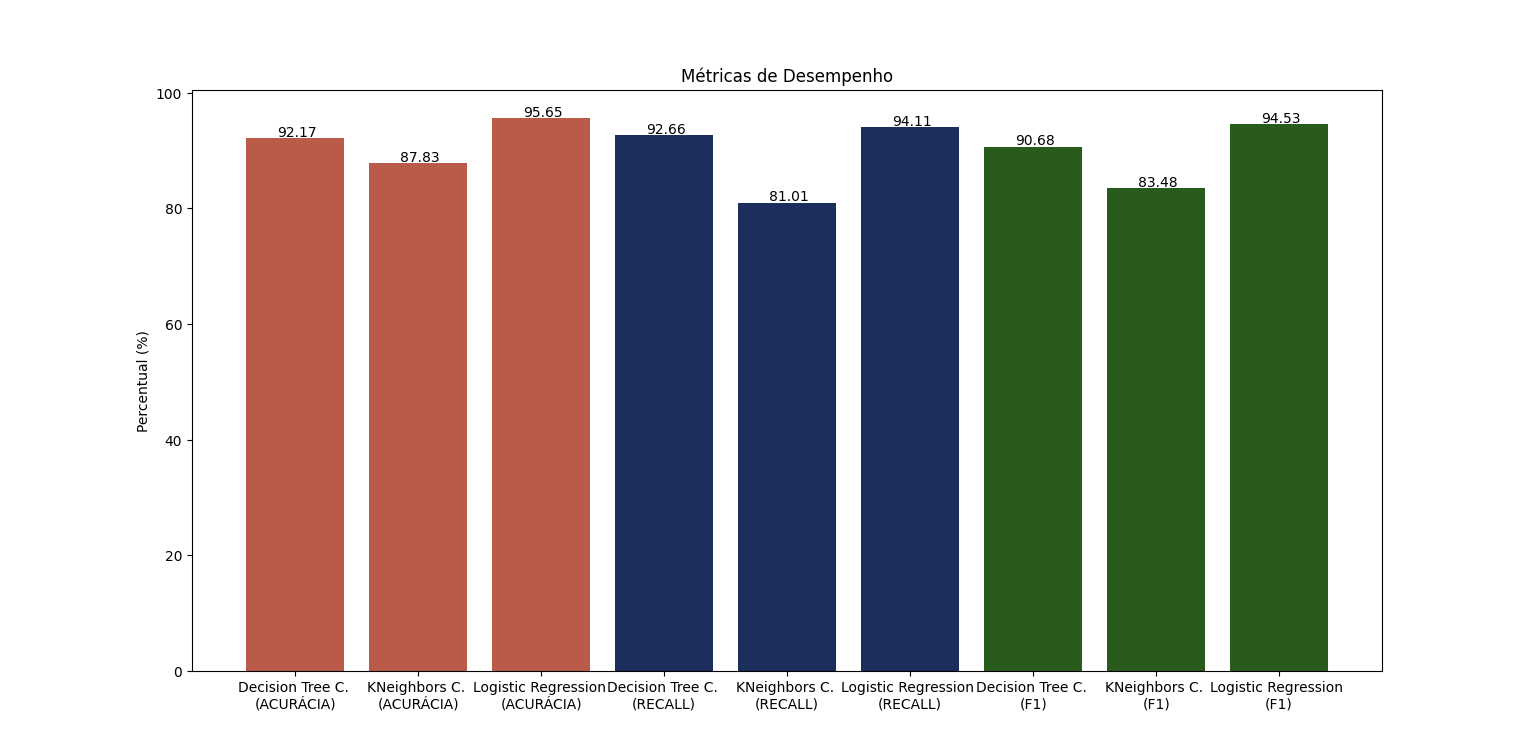
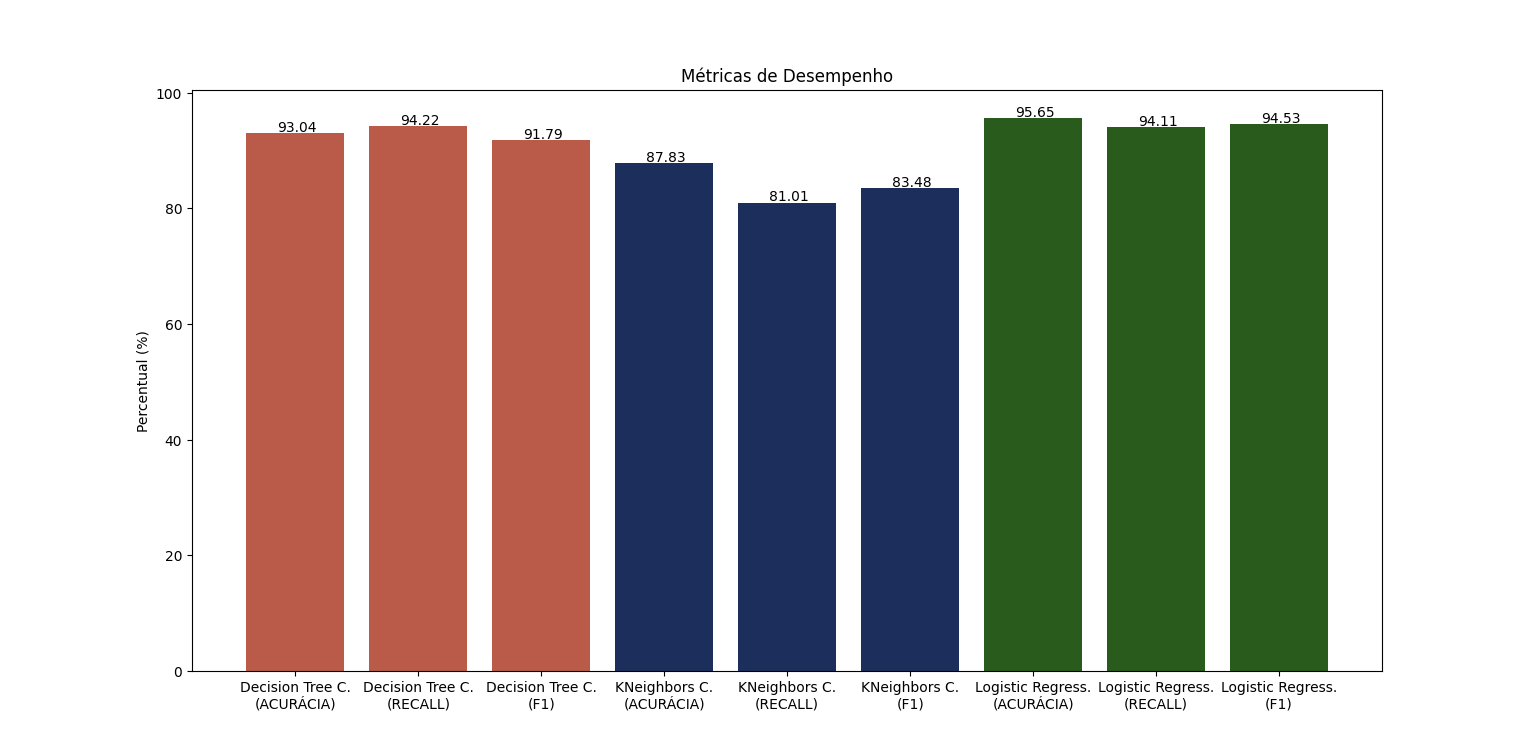
refactor: create modules to model trainning and change datas of README

Changed region(s): [[0.1562, 0.8846, 0.875, 0.9456], [0.5625, 0.122, 0.8125, 0.2745], [0.1562, 0.122, 0.4688, 0.2135]]

diff --git a/train.py b/train.py
@@ -6,23 +6,77 @@ from sklearn.linear_model import LogisticRegression
 from sklearn.metrics import accuracy_score, confusion_matrix, ConfusionMatrixDisplay, f1_score, recall_score
 import matplotlib.pyplot as plt
 
-scores = {
-    "decision_tree" : {
-        "accuracy" : None,
-        "recall" : None,
-        "f1" : None
-    },
-    "kneighbors" : {
-        "accuracy" : None,
-        "recall" : None,
-        "f1" : None
-    },
-    "logistic_regression" : {
-        "accuracy" : None,
-        "recall" : None,
-        "f1" : None
+
+def trainning(X_train, X_test, y_train, y_test, md="decision_tree", max_iterator=None, show_matrix=False):
+    
+    selected_model = None
+    if(max_iterator != None):
+        selected_model = select_model(md, max_iterator)
+    else:
+        selected_model = select_model(md)
+    model = selected_model[0]
+    description = selected_model[1]
+
+    if model == None:
+        print("ERRO - Nenhum modelo válido foi selecionado")
+        return None
+    
+    model.fit(X_train, y_train)
+    y_predict = model.predict(X_test)
+    accuracy = accuracy_score(y_test, y_predict)
+    recall = recall_score(y_test, y_predict, average="macro")
+    f1 = f1_score(y_test, y_predict, average="macro")
+
+    if(show_matrix):
+        show_confusion_matrix(y_test, y_predict, model, description)
+
+    return {
+        "model" : description,
+        "accuracy" : accuracy * 100,
+        "recall" : recall * 100,
+        "f1" : f1 * 100
     }
-}
+
+def show_metrics(scores):
+
+    score_labels = []
+    score_values = []
+    for score in scores:
+        for type in ["\n(ACURÁCIA)", "\n(RECALL)", "\n(F1)"]:
+            score_labels.append(score["model"] + type)
+        score_values.extend([score["accuracy"], score["recall"], score["f1"]])
+
+    score_colors = [
+        "#BA5B49", "#BA5B49", "#BA5B49",
+        "#1C2E5C", "#1C2E5C", "#1C2E5C",
+        "#295C1C", "#295C1C", "#295C1C"
+    ]
+
+    plt.bar(score_labels, score_values, color=score_colors)
+    for i in range(len(score_values)):
+        plt.text(-0.15 + i, score_values[i] + 0.25, round(score_values[i], 2))    
+    plt.ylabel("Percentual (%)")
+    plt.title("Métricas de Desempenho")
+    plt.show()
+
+def select_model(md, max_iterator=400):
+
+    if md == "decision_tree":
+        return [DecisionTreeClassifier(), "Decision Tree C."]
+    elif md == "kneighbors":
+        return [KNeighborsClassifier(), "KNeighbors C."]
+    elif md == "logistic_regression":
+        return [LogisticRegression(max_iter=max_iterator), "Logistic Regress."]
+    else:
+        return None
+
+def show_confusion_matrix(y_test, y_predict, model, md):
+
+    conf_matrix = confusion_matrix(y_test, y_predict)
+    display = ConfusionMatrixDisplay(confusion_matrix=conf_matrix, display_labels=model.classes_)
+    display.plot()
+    plt.title("Matriz de Confusão - " + md)
+    plt.show()
 
 
 df = pd.read_excel("Thyroid_Diff.xlsx")
@@ -37,82 +91,17 @@ print("\n" + "=" * 40 + " SOBRE O DATASET " + "=" * 40)
 print(df.describe())
 x = input()
 
-
 X = df.drop("Recurred", axis=1) # features (age, gender, smoking, ...)
 y = df["Recurred"] # target (recurred? -> yes/no)
 
 X_enc = pd.get_dummies(X, drop_first=True)
 X_train, X_test, y_train, y_test = train_test_split(X_enc, y, test_size = 0.3, random_state = 42)
 
-# (1) treinamento usando Decision Tree Classifier
-model = DecisionTreeClassifier()
-model.fit(X_train, y_train)
-y_predict = model.predict(X_test)
-scores['decision_tree']['accuracy'] = accuracy_score(y_test, y_predict)
-scores['decision_tree']['recall'] = recall_score(y_test, y_predict, average="macro")
-scores['decision_tree']['f1'] = f1_score(y_test, y_predict, average="macro")
-
-conf_matrix = confusion_matrix(y_test, y_predict)
-display = ConfusionMatrixDisplay(confusion_matrix = conf_matrix, display_labels = model.classes_)
-display.plot()
-plt.title("Matriz de Confusão - Decision Tree Classifier")
-plt.show()
-
-# (2) treinamento usando KNeighbors Classifier
-model = KNeighborsClassifier()
-model.fit(X_train, y_train)
-y_predict = model.predict(X_test)
-scores['kneighbors']['accuracy'] = accuracy_score(y_test, y_predict)
-scores['kneighbors']['recall'] = recall_score(y_test, y_predict, average="macro")
-scores['kneighbors']['f1'] = f1_score(y_test, y_predict, average="macro")
-
-conf_matrix = confusion_matrix(y_test, y_predict)
-display = ConfusionMatrixDisplay(confusion_matrix = conf_matrix, display_labels = model.classes_)
-display.plot()
-plt.title("Matriz de Confusão - KNeighbors Classifier")
-plt.show()
-
-# (3) treinamento usando Logistic Regression
-model = LogisticRegression(max_iter=400)
-model.fit(X_train, y_train)
-y_predict = model.predict(X_test)
-scores['logistic_regression']['accuracy'] = accuracy_score(y_test, y_predict)
-scores['logistic_regression']['recall'] = recall_score(y_test, y_predict, average="macro")
-scores['logistic_regression']['f1'] = f1_score(y_test, y_predict, average="macro")
-
-conf_matrix = confusion_matrix(y_test, y_predict)
-display = ConfusionMatrixDisplay(confusion_matrix = conf_matrix, display_labels = model.classes_)
-display.plot()
-plt.title("Matriz de Confusão - Logistic Regression")
-plt.show()
+scores = []
+for model in ["decision_tree", "kneighbors", "logistic_regression"]:
+    results = trainning(X_train, X_test, y_train, y_test, model, show_matrix=True)
+    scores.append(results)
+print(scores)
+show_metrics(scores)
 
 
-score_labels = [
-    "Decision Tree C. \n(ACURÁCIA)", "KNeighbors C. \n(ACURÁCIA)", "Logistic Regression \n(ACURÁCIA)",
-    "Decision Tree C. \n(RECALL)", "KNeighbors C. \n(RECALL)", "Logistic Regression \n(RECALL)",
-    "Decision Tree C. \n(F1)", "KNeighbors C. \n(F1)", "Logistic Regression \n(F1)"
-]
-
-score_numbers = [
-    scores["decision_tree"]["accuracy"] * 100, scores["kneighbors"]["accuracy"] * 100, scores["logistic_regression"]["accuracy"] * 100,
-    scores["decision_tree"]["recall"] * 100, scores["kneighbors"]["recall"] * 100, scores["logistic_regression"]["recall"] * 100,
-    scores["decision_tree"]["f1"] * 100, scores["kneighbors"]["f1"] * 100, scores["logistic_regression"]["f1"] * 100
-]
-
-score_colors = [
-    "#BA5B49", "#BA5B49", "#BA5B49",
-    "#1C2E5C", "#1C2E5C", "#1C2E5C",
-    "#295C1C", "#295C1C", "#295C1C"
-]
-
-plt.bar(score_labels, score_numbers, color=score_colors)
-
-#plt.text(-0.15, score_numbers[0] + 0.25, round(score_numbers[0], 2))
-
-for i in range(len(score_numbers)):
-    plt.text(-0.15 + i, score_numbers[i] + 0.25, round(score_numbers[i], 2))
-    
-
-plt.ylabel("Percentual (%)")
-plt.title("Métricas de Desempenho")
-plt.show()

diff --git a/README.md b/README.md
@@ -9,7 +9,6 @@ Neste treinamento é possível:
 * Ver as informações do *dataset* utilizado (*via biblioteca pandas*);
 * Separar os dados para teste e treino;
 * Realizar treinamento a partir de diversos algoritmos (Decision Tree Classifier, KNeighbors Classifier e Logistic Regression);
-* Realizar predições da recorrência de câncer de tireoide para uma determinada entrada de dados;
 * Medir variáveis de desempenho (acurácia, *recall* e F1);
 * Visualizar resultados em forma de gráfico e matrizes de decisão.
 
@@ -19,7 +18,7 @@ Abaixo estão dispostos os dados do experimento e suas respectivas descrições.
 
 | Modelo                   | Acurácia   | Recall    | F1       |
 | ------------------------ | ---------- | --------- | -------- |
-| Decision Tree Classifier | 92,173 %   | 92,658 ¨% | 90,683 % |
+| Decision Tree Classifier | 93,043 %   | 94,221 ¨% | 91,786 % |
 | KNeighbors Classifier    | 87,826 %   | 81,005 %  | 83,477 % |
 | Logistic Regression      | 95,652 %   | 94,108 %  | 94,535 % |
 
@@ -29,9 +28,9 @@ Utilizando as técnicas de medição disponibilizadas pelo `sklearn.metrics` (re
 > Em *train.py*, note que foram atribuídos os parâmetros `test_size=0.3` e `random_state=42` para o método `train_test_split()`. A alteração destes valores pode acarretar em mudanças nos parâmetros de *performance*.
 
 Utilizando o `matplotlib`, foi produzido o gráfico seguinte para melhor visualização dos aspectos de cada modelo, o qual é composto por três grupos com três barras cada, sendo respectivamente:
-* **Vermelho:** indica a acurácia;
-* **Azul:** indica o *recall*;
-* **Verde:** indica o F1.
+* **Vermelho:** indica as taxas do modelo Decision Tree Classifier;
+* **Azul:** indica as taxas do modelo KNeighbors Classifier;
+* **Verde:** indica as taxas do modelo Logistic Progression.
 
 ![Gráfico comparativo de métricas de desempenho para os três algoritmos](/assets/bar-graphic-comparing-scores.png)
 
